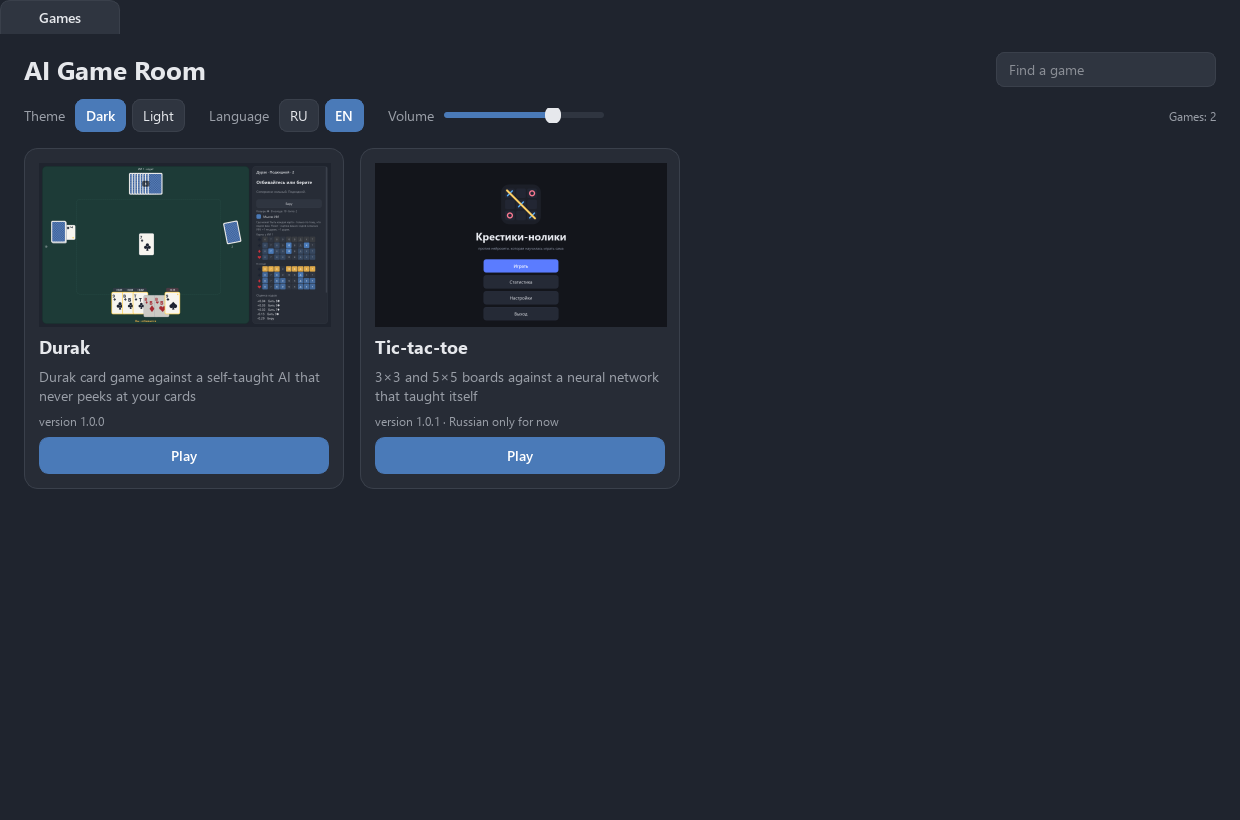
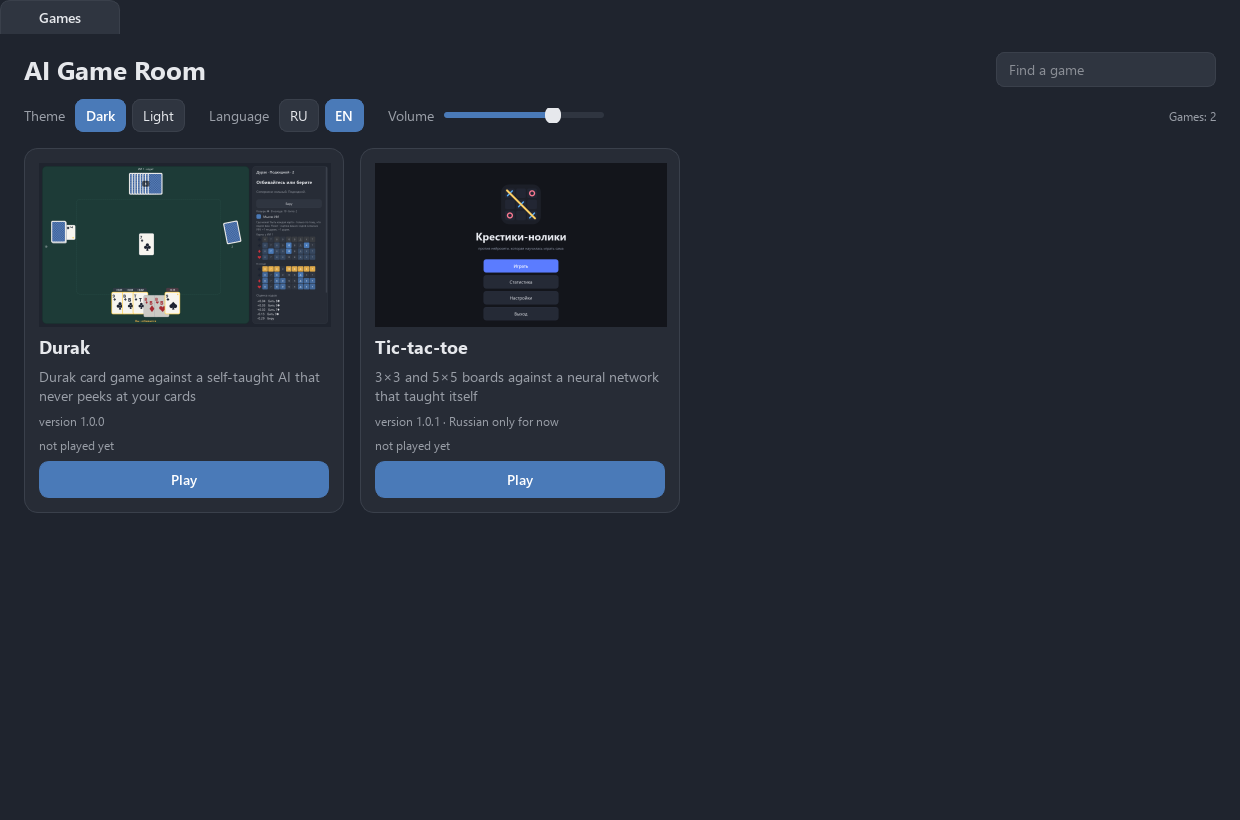
Общая статистика на карточках игр (партии, победы, лучшая серия) и итог по всем играм; 2 новых мутанта пойманы

Changed region(s): [[0.0306, 0.5183, 0.5516, 0.6098]]

diff --git a/shell/home.py b/shell/home.py
@@ -1,9 +1,12 @@
-"""Главная вкладка: карточки игр, поиск, тема, язык, громкость."""
+"""Главная вкладка: карточки игр, поиск, тема, язык, громкость, общая статистика."""
+import os
+
 from PySide6.QtCore import Qt
 from PySide6.QtGui import QPixmap
 from PySide6.QtWidgets import (QFrame, QGridLayout, QHBoxLayout, QLineEdit, QScrollArea, QSlider,
                                QVBoxLayout, QWidget)
 
+from aikit.stats import Stats
 from aikit.widgets import button, label, segmented
 
 CARD_W = 320
@@ -40,6 +43,8 @@ class GameCard(QFrame):
         lay.addWidget(self.summary)
         self.note = label(name="hint", wrap=True)
         lay.addWidget(self.note)
+        self.played = label(name="hint", wrap=True)
+        lay.addWidget(self.played)
         self.error = label(name="error", wrap=True)
         self.error.setTextInteractionFlags(Qt.TextInteractionFlag.TextSelectableByMouse)
         lay.addWidget(self.error)
@@ -48,8 +53,13 @@ class GameCard(QFrame):
         self.play.setVisible(entry.ok)
         lay.addWidget(self.play)
 
-    def retranslate(self, t, lang, opened):
+    def retranslate(self, t, lang, opened, totals=None):
         e = self.entry
+        if totals and totals["games"]:
+            self.played.setText(t("played", g=totals["games"], w=totals["wins"], s=totals["best_streak"]))
+        else:
+            self.played.setText(t("not_played"))
+        self.played.setVisible(e.ok)
         self.title.setText(e.title(lang))
         self.summary.setText(e.summary(lang))
         notes = []
@@ -151,6 +161,15 @@ class HomePage(QWidget):
         self.columns = 0
         self.retranslate()
 
+    def totals(self):
+        """Общая статистика: stats.json каждой игры в её папке данных (aikit.stats).
+        Игра пишет его сама через ctx.stats - оболочке не нужно её открывать."""
+        out = {}
+        for c in self.cards:
+            if c.entry.ok:
+                out[c.entry.id] = Stats(os.path.join(self.window_.root, c.entry.id, "stats.json")).totals()
+        return out
+
     def visible_cards(self):
         q = self.search.text().strip()
         return [c for c in self.cards if c.matches(q)]
@@ -179,9 +198,12 @@ class HomePage(QWidget):
         self.theme_buttons["light"].setText(t("theme_light"))
         self.lang_label.setText(t("lang"))
         self.volume_label.setText(t("volume"))
-        self.count.setText(t("count", n=sum(c.entry.ok for c in self.cards)))
+        totals = self.totals()
+        played = sum(x["games"] for x in totals.values())
+        self.count.setText(t("count", n=sum(c.entry.ok for c in self.cards))
+                           + (" · " + t("played_total", n=played) if played else ""))
         for c in self.cards:
-            c.retranslate(t, w.lang, w.is_open(c.entry.id))
+            c.retranslate(t, w.lang, w.is_open(c.entry.id), totals.get(c.entry.id))
         self.sync()
         self.relayout()
 

diff --git a/tests/test_shell.py b/tests/test_shell.py
@@ -239,3 +239,31 @@ def test_no_games_folder_shows_empty_home(make_shell, tmp_path):
     w = make_shell(str(tmp_path / "empty_games"))
     assert w.entries == [] and not w.home.empty.isHidden()
     assert w.home.empty.text() == "В папке games/ пока нет игр"
+
+
+def test_shared_statistics_on_cards(make_shell, tmp_path, qapp):
+    from aikit.stats import Stats
+    root = tmp_path / "s"
+    st = Stats(str(root / "good" / "stats.json"))
+    for result in ("win", "win", "loss", "win"):
+        st.record("2p/strong", result)
+    Stats(str(root / "hooks" / "stats.json")).record("x", "draw")
+    w = make_shell(FIXTURE_GAMES, root)
+    assert card(w, "good").played.text() == "партий 4 · побед 3 · лучшая серия 2"
+    assert card(w, "boom").played.text() == "ещё не играли"
+    assert card(w, "broken_import").played.isHidden()
+    assert w.home.count.text() == "Игр: 3 · Партий во всех играх: 5"
+    tab = w.open_game("good")                 # партия сыграна в игре - видно, вернувшись в список
+    tab.ctx.stats.record("2p/strong", "win")
+    w.tabs.setCurrentIndex(0)
+    assert card(w, "good").played.text() == "партий 5 · побед 4 · лучшая серия 2"
+    w.set_lang("en")
+    assert card(w, "good").played.text() == "5 games · 4 wins · best streak 2"
+
+
+def test_statistics_survive_broken_file(make_shell, tmp_path):
+    root = tmp_path / "b"
+    (root / "good").mkdir(parents=True)
+    (root / "good" / "stats.json").write_text("{битый", encoding="utf-8")
+    w = make_shell(FIXTURE_GAMES, root)
+    assert card(w, "good").played.text() == "ещё не играли"

diff --git a/tools/mutate.py b/tools/mutate.py
@@ -50,6 +50,9 @@ MUTANTS = [
      f"{TS} -k registry"),
     ("карточка сломанной игры с кнопкой", H, "self.play.setVisible(entry.ok)", "self.play.setVisible(True)",
      f"{TS} -k cards_show"),
+    ("статистика не обновляется после игры", W, "            self.home.retranslate()           # статистика",
+     "            self.home.sync()           # статистика", f"{TS} -k statistic"),
+    ("статистика не читается", H, '"stats.json")).totals()', '"stats.jsn")).totals()', f"{TS} -k statistic"),
     ("поиск с учётом регистра", H, "return query.casefold() in hay.casefold()", "return query in hay",
      f"{TS} -k search"),
     ("контракт: pygame можно", CC, 'if top == "pygame":', 'if top == "pygame_":', f"{TC} -k violation"),

diff --git a/shell/strings.py b/shell/strings.py
@@ -20,6 +20,9 @@ TABLES = {
         "nothing_found": "Ничего не нашлось",
         "no_games": "В папке games/ пока нет игр",
         "count": "Игр: {n}",
+        "played": "партий {g} · побед {w} · лучшая серия {s}",
+        "not_played": "ещё не играли",
+        "played_total": "Партий во всех играх: {n}",
     },
     "en": {
         "app": "AI Game Room",
@@ -39,6 +42,9 @@ TABLES = {
         "nothing_found": "Nothing found",
         "no_games": "No games in the games/ folder yet",
         "count": "Games: {n}",
+        "played": "{g} games · {w} wins · best streak {s}",
+        "not_played": "not played yet",
+        "played_total": "Games played in total: {n}",
     },
 }
 

diff --git a/shell/window.py b/shell/window.py
@@ -176,7 +176,7 @@ class ShellWindow(QMainWindow):
             if not self.isMinimized():
                 new.resume()
         else:
-            self.home.sync()
+            self.home.retranslate()           # статистика могла измениться, пока шла игра
 
     def close_tab(self, index):
         widget = self.tabs.widget(index)

diff --git a/README.ru.md b/README.ru.md
@@ -24,6 +24,8 @@
   останавливает потоки игры за 2 секунды и освобождает память.
 - **Общие настройки:** темы Paint (тёмная и светлая), русский и английский, громкость. Сменили в
   оболочке или в настройках любой игры - смена доходит до всех открытых игр.
+- **Общая статистика:** на карточке игры - сколько партий, побед и лучшая серия побед, в шапке -
+  сколько партий во всех играх.
 - Окно открывается там, где его закрыли.
 - Только Python, PySide6 и numpy. Без pygame.
 

diff --git a/CHANGELOG.md b/CHANGELOG.md
@@ -5,6 +5,7 @@
 Первая оболочка.
 
 - Вкладка «Игры» с карточками (превью, описание, версия, поиск); сломанная игра - с причиной.
+- Общая статистика: партии, победы и лучшая серия каждой игры из её stats.json, итог по всем играм.
 - Игра открывается во вкладке через `create_widget(ctx)`; общие тема, язык RU/EN, громкость,
   место окна.
 - Скрытая вкладка - пауза (`pause/resume` игры или остановка её таймеров), закрытая -

diff --git a/README.md b/README.md
@@ -24,6 +24,8 @@ Each game is developed in its own repository and follows one contract
   game's threads within 2 seconds and frees its memory.
 - **Shared settings:** Paint themes (dark and light), Russian and English, volume. Changing them
   in the shell or inside any game reaches every open game.
+- **Shared statistics:** every card shows games played, wins and the best winning streak; the
+  header shows the total over all games.
 - The window reopens where it was closed.
 - Python, PySide6 and numpy only. No pygame.
 
